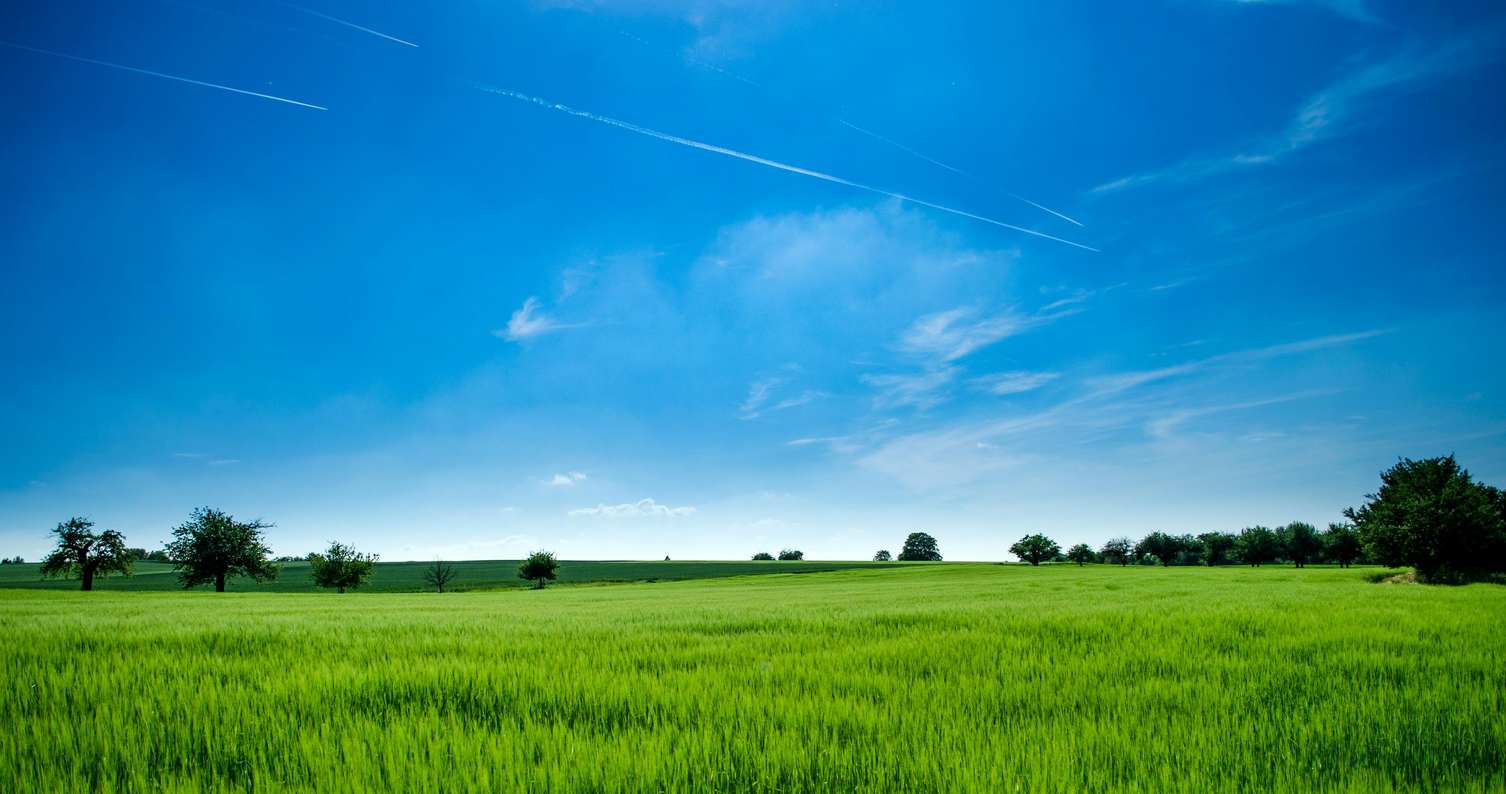
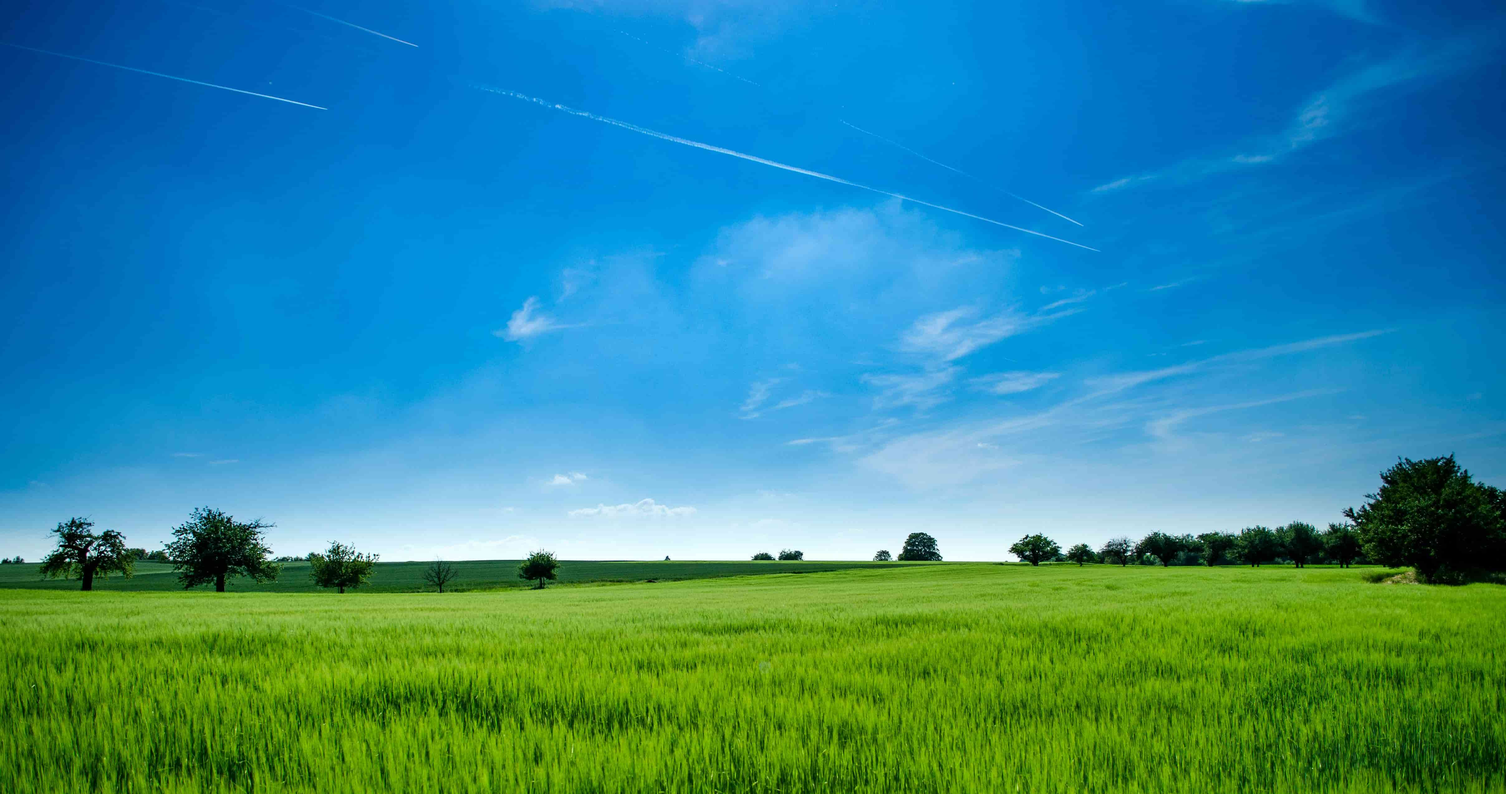
Display shorter city names and compress default image

Changed region(s): [[0.031, 0.6511, 0.1242, 0.7131], [0.1242, 0.6511, 0.1863, 0.7131], [0.2173, 0.6821, 0.2484, 0.7131]]

diff --git a/client/src/App.jsx b/client/src/App.jsx
@@ -141,7 +141,8 @@ const imgBackground = (imgData.hits && imgData.hits.length > 0) ? imgData.hits[0
 
                 setWeatherNow(prev => 
                     ({...prev,
-                        name: data[0].local_names?.en ? data[0].local_names.en : data[0].state ? data[0].name + ' - ' + data[0].state : data[0].name, 
+                        name: data[0].local_names?.en ? data[0].local_names.en : data[0].state ? data[0].name + ' - ' + data[0].state : data[0].name,
+                        shortname: data[0].name,
                         country: weatherData.sys.country,
                         temp: weatherData.main.temp.toFixed(0),
                         tempFeels: weatherData.main.feels_like.toFixed(0), 
@@ -435,7 +436,7 @@ function showTemp(celsius){
                                 </div>
                                 <div className="weatherInfoExtraDesc">
                                     <p>Location</p>
-                                    <h1>{weatherNow.name}</h1>
+                                    <h1>{weatherNow.shortname}</h1>
                                 </div>
                             </div>
                             <div>
